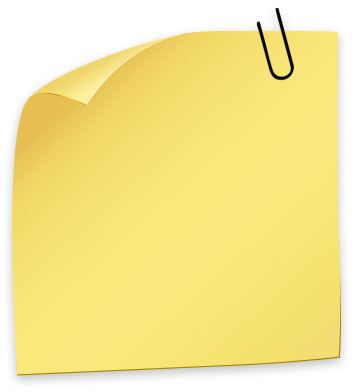
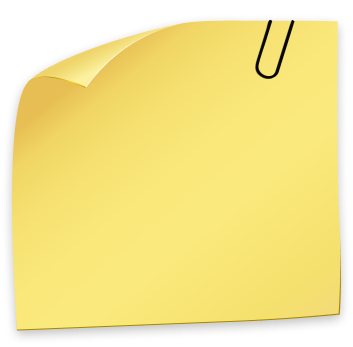
postit clip

Changed region(s): [[0.0623, 0.0, 0.966, 0.4899], [0.0312, 0.5476, 0.966, 0.9798], [0.0312, 0.2882, 0.0623, 0.4323]]

diff --git a/index.html b/index.html
@@ -34,7 +34,7 @@
         </picture>
 
         <picture id="postit">
-            <img src="imagens/figma/Mockup/Post-it-1.png" alt="">
+            <img src="imagens/figma/Mockup/Post-it-4.png" alt="">
         </picture>
 
         <div id="saudacao">
